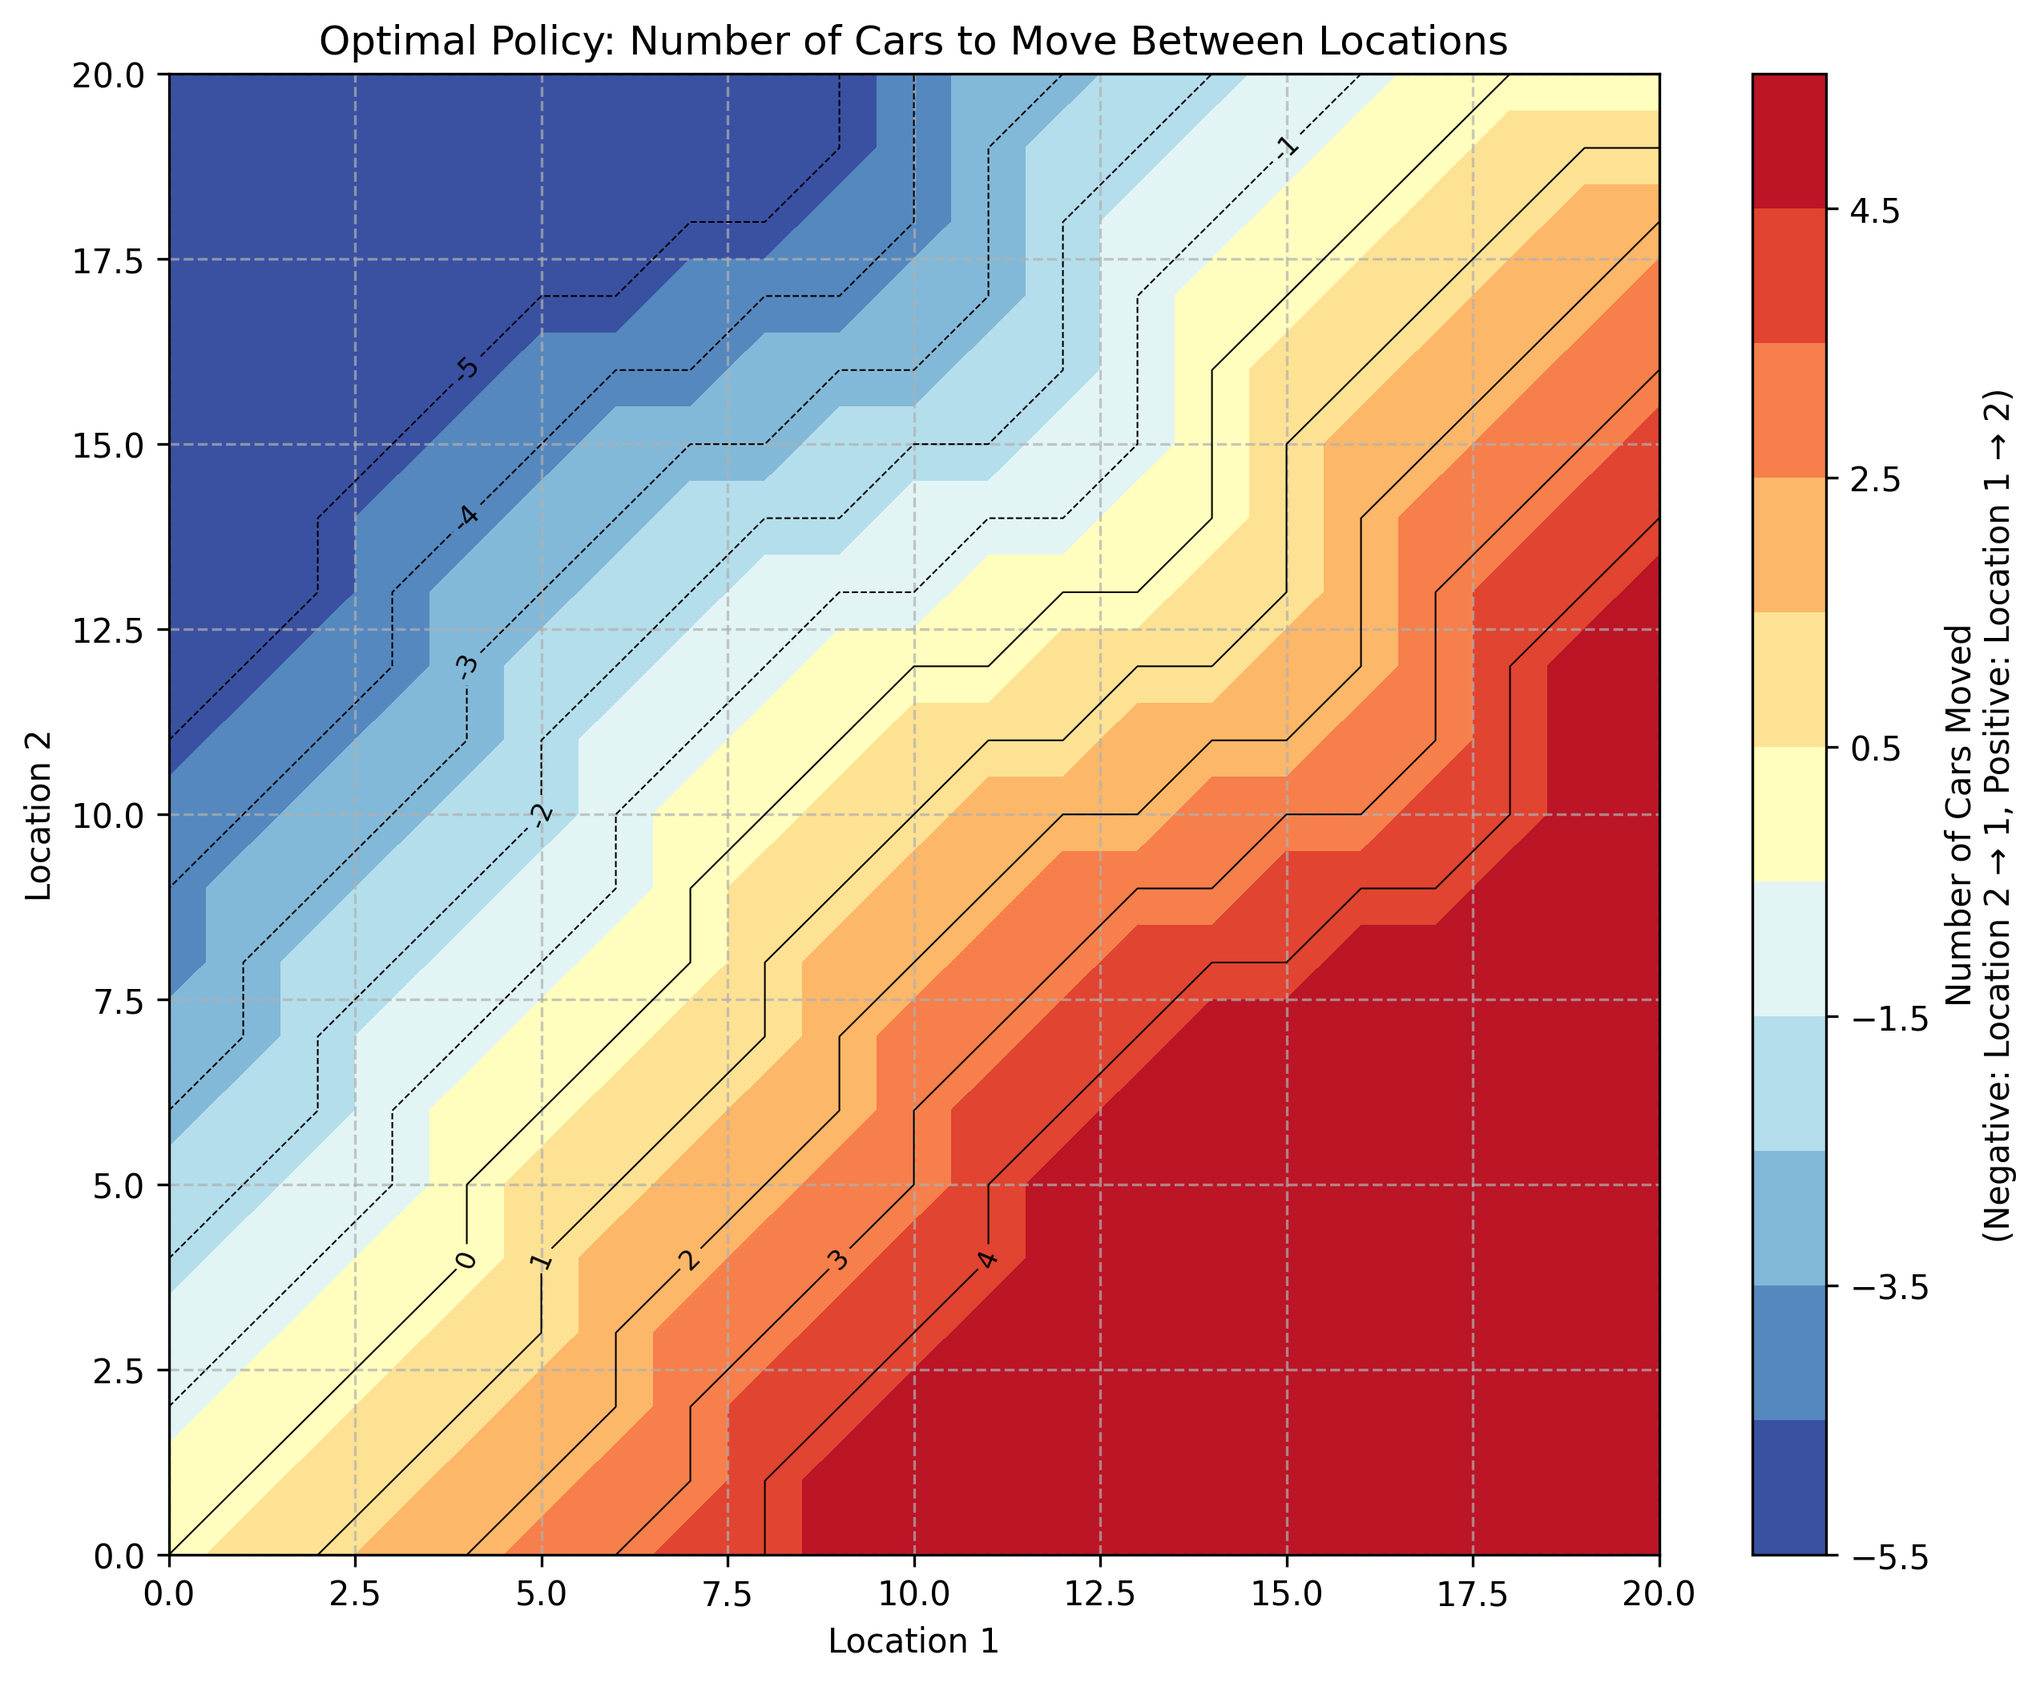
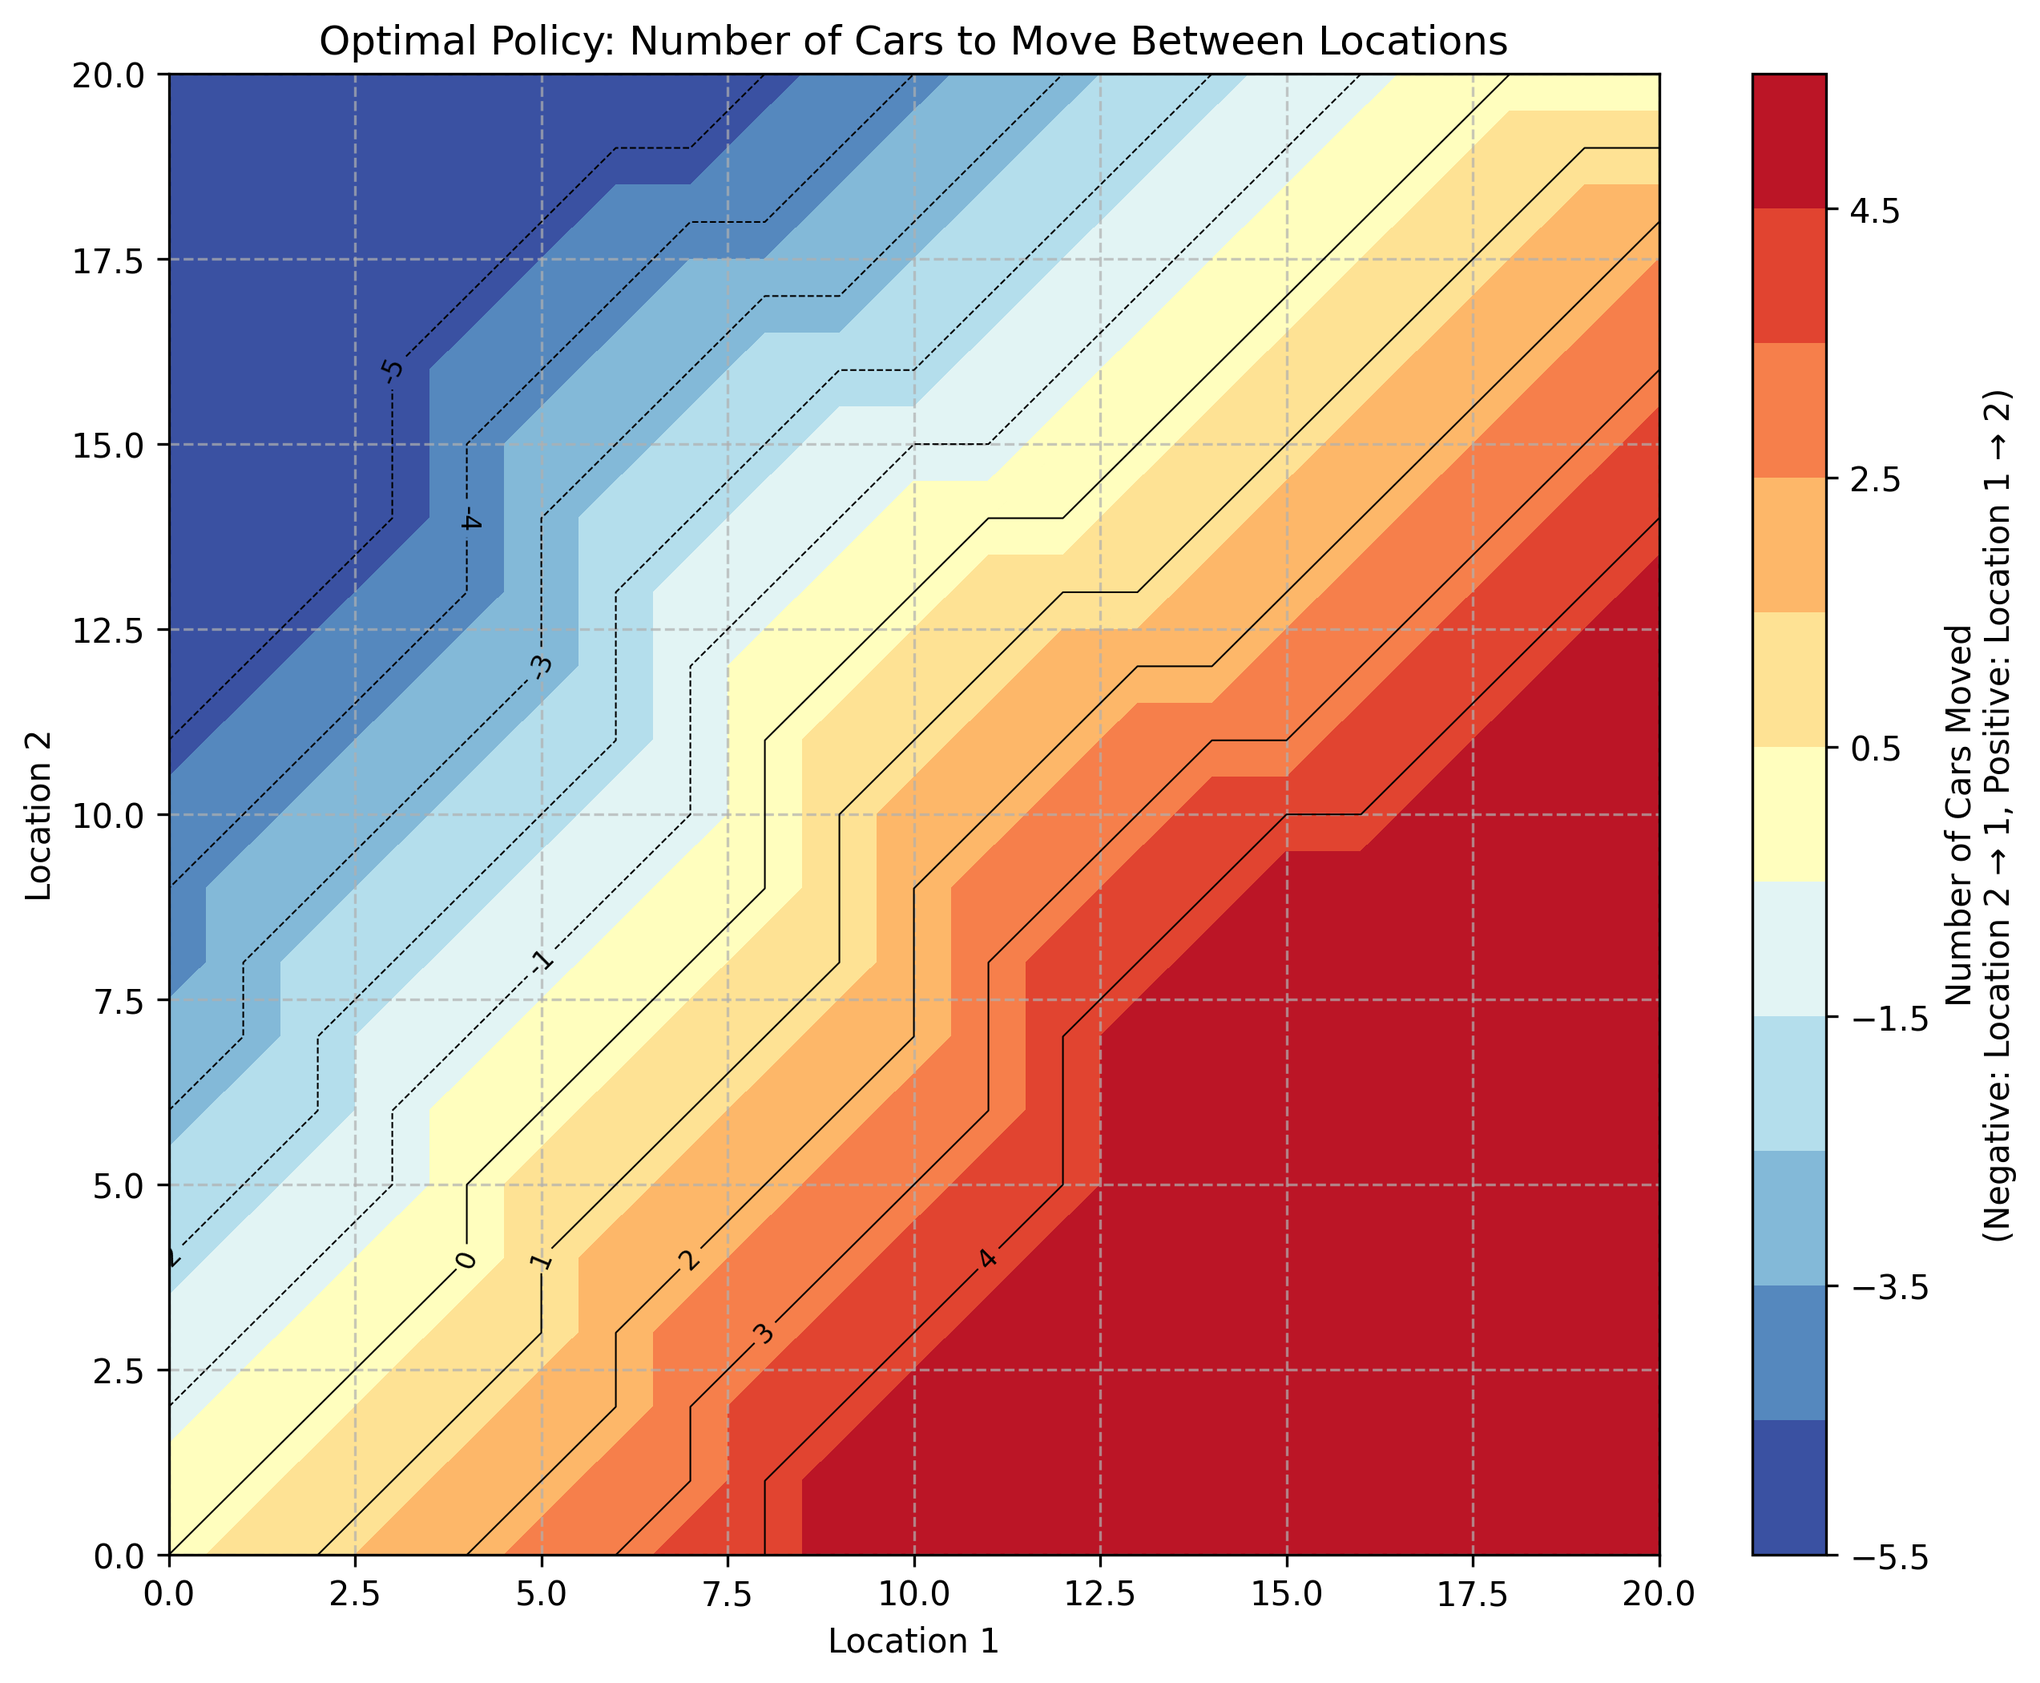
Big refactor

Changed region(s): [[0.1551, 0.031, 0.7757, 0.7429]]

diff --git a/car_rental/algorithms/q_learning.py b/car_rental/algorithms/q_learning.py
@@ -1,51 +1,82 @@
 import numpy as np
-from car_rental.environment import CarRentalEnv
+from car_rental.algorithms.base_agent import BaseAgent
 
 
-class QLearningAgent:
-    def __init__(self, env, learning_rate=0.1, discount_factor=0.9, epsilon=0.01):
-        self.env: CarRentalEnv = env
-        self.learning_rate = learning_rate
+class QLearningAgent(BaseAgent):
+    def __init__(self, env, learning_rate=0.3, discount_factor=0.9, epsilon=0.1):
+        super().__init__(env, discount_factor)
         self.epsilon = epsilon
-        self.state_space_dims = (self.env.max_cars + 1, self.env.max_cars + 1)
         self.discount_factor = discount_factor
         self.q_values = {}  # A map from (state, action) -> value.
-        self.policy = np.zeros(self.state_space_dims, dtype=int)
-
-    def evaluate_policy(self, max_iterations=100, threshold=0.01):
-        for iteration in range(max_iterations):
-            delta = 0
-            for i in range(self.state_space_dims[0]):
-                for j in range(self.state_space_dims[1]):
-                    state = (i, j)
-                    action = self.policy[state]
-                    current_q = self.q_values[(state, action)]
-                    valid_actions = self.env.get_valid_actions(state)
-                    q_values = [self.q_values.get((state, a), 0) for a in valid_actions]
-                    best_q, best_action = max(zip(q_values, valid_actions))
-                    next_action = (
-                        best_action
-                        if np.random.uniform() > self.epsilon
-                        else np.random.choice(valid_actions)
-                    )
-
-                    next_state, reward = self.env.sample_step(state, next_action)
-                    diff = reward + self.discount_factor * best_q - current_q
-                    self.q_values[(state, action)] = (
-                        current_q + self.learning_rate * diff
-                    )
-
-                    delta = max(delta, abs(diff))
-
-            if delta < threshold:
-                print(f"Converged after {iteration} iterations with delta: {delta}")
-                break
+        self.learning_rate = learning_rate
 
     def optimise_policy(self):
-        for i in range(self.state_space_dims[0]):
-            for j in range(self.state_space_dims[1]):
+        for i in range(self.env.max_cars + 1):
+            for j in range(self.env.max_cars + 1):
                 state = (i, j)
                 valid_actions = self.env.get_valid_actions(state)
                 q_values = [self.q_values.get((state, a), 0) for a in valid_actions]
                 _, action = max(zip(q_values, valid_actions))
                 self.policy[state] = action
+
+    def _train(self, max_episodes=5000, max_steps=200):
+        """Direct Q-learning with improved exploration and learning"""
+        # Decay epsilon over time
+        initial_epsilon = self.epsilon
+        epsilon_decay = 0.995
+        min_epsilon = 0.01
+
+        best_reward = float("-inf")
+        for episode in range(max_episodes):
+            state = self.env.reset()
+            total_reward = 0
+
+            # Decay epsilon
+            self.epsilon = max(min_epsilon, initial_epsilon * (epsilon_decay**episode))
+
+            for step in range(max_steps):
+                valid_actions = self.env.get_valid_actions(state)
+
+                if np.random.uniform() < self.epsilon:
+                    action = np.random.choice(valid_actions)
+                else:
+                    q_values = [
+                        self.q_values.get((state, a), 10.0) for a in valid_actions
+                    ]  # Optimistic init
+                    action = valid_actions[np.argmax(q_values)]
+
+                next_state, reward = self.env.sample_step(state, action)
+                if next_state is None:
+                    break
+
+                # Double Q-learning update to reduce overestimation
+                next_valid_actions = self.env.get_valid_actions(next_state)
+                next_q_values = [
+                    self.q_values.get((next_state, a), 10.0) for a in next_valid_actions
+                ]
+
+                # Use separate max for action selection and value estimation
+                best_action_idx = np.argmax(next_q_values)
+                max_next_q = next_q_values[best_action_idx]
+
+                current_q = self.q_values.get((state, action), 10.0)  # Optimistic init
+                self.q_values[(state, action)] = current_q + self.learning_rate * (
+                    reward + self.discount_factor * max_next_q - current_q
+                )
+
+                state = next_state
+                total_reward += reward
+
+            # Track and report progress
+            if total_reward > best_reward:
+                best_reward = total_reward
+                self.optimise_policy()  # Update policy when we find better performance
+
+            if episode % 100 == 0:  # Less frequent printing
+                print(
+                    f"Episode {episode}, Total Reward: {total_reward:.2f}, "
+                    f"Epsilon: {self.epsilon:.3f}, Best: {best_reward:.2f}"
+                )
+
+    def train(self, max_iterations=1000, threshold=0.01):
+        self._train(max_episodes=1000, max_steps=100)

diff --git a/car_rental/algorithms/policy_iteration.py b/car_rental/algorithms/policy_iteration.py
@@ -1,19 +1,17 @@
 import numpy as np
-from car_rental.environment import CarRentalEnv
+from car_rental.algorithms.base_agent import BaseAgent
 from tqdm import tqdm
 
 
-class PolicyIterationAgent:
+class PolicyIterationAgent(BaseAgent):
     def __init__(self, env, discount_factor=0.9):
         """
         Initialize the RL agent.
         :param env: The environment instance
         :param discount_factor: Discount factor (gamma)
         """
-        self.env: CarRentalEnv = env
-        self.discount_factor = discount_factor
-        self.value_function = np.zeros((env.max_cars + 1, env.max_cars + 1))
-        self.policy = np.zeros((env.max_cars + 1, env.max_cars + 1), dtype=int)
+        super().__init__(env, discount_factor)
+        self.value_function = np.zeros(env.state_space_dims)
 
     def evaluate_policy(self, max_iterations=100, threshold=0.1):
         """
@@ -22,7 +20,6 @@ class PolicyIterationAgent:
         print("Evaluating policy...")
         for iteration in range(max_iterations):
             delta = 0
-            # Iterate over state space.
             for i in range(self.env.max_cars + 1):
                 for j in range(self.env.max_cars + 1):
                     state = (i, j)
@@ -31,7 +28,6 @@ class PolicyIterationAgent:
 
                     new_value = 0
                     transitions = self.env.get_transition_probs(state, action)
-
                     for prob, next_state, reward in transitions:
                         next_value = self.value_function[next_state]
                         new_value += prob * (reward + self.discount_factor * next_value)
@@ -90,27 +86,3 @@ class PolicyIterationAgent:
             if self.improve_policy():
                 print("Policy converged")
                 break
-
-    def act(self, state):
-        """
-        Get the best action for a given state based on the current policy.
-        :param state: Current state (tuple)
-        :return: Action
-        """
-        return self.policy[state]
-
-    def save_policy(self, filename):
-        """
-        Save the policy to a file.
-        :param filename: Name of the file
-        """
-        np.save(filename, self.policy)
-        print(f"Policy saved to {filename}")
-
-    def load_policy(self, filename):
-        """
-        Load the policy from a file.
-        :param filename: Name of the file
-        """
-        self.policy = np.load(filename)
-        print(f"Policy loaded from {filename}")

diff --git a/car_rental/environment.py b/car_rental/environment.py
@@ -13,13 +13,14 @@ class CarRentalEnv:
         rental_rates=[3, 4],
         return_rates=[3, 2],
     ):
-        self.max_cars = max_cars
+        self.max_cars = int(max_cars)
         self.max_move = max_move
         self.rental_reward = rental_reward
         self.move_cost = move_cost
         self.rental_rates = rental_rates  # Poisson parameters for rentals.
         self.return_rates = return_rates  # Poisson parameters for returns.
         self._transition_cache = TransitionCache()
+        self.state_space_dims = (max_cars + 1, max_cars + 1)
 
     def reset(self):
         """
@@ -29,12 +30,17 @@ class CarRentalEnv:
         return (10, 10)
 
     def sample_step(self, state, action):
-        probs, next_states, rewards = self.get_transition_probs(state, action=action)
+        transitions = self.get_transition_probs(state, action=action)
+        if len(transitions):
+            probs, next_states, rewards = zip(*transitions)
+        else:
+            return None, None
         ids = range(len(next_states))
+        probs = probs / np.sum(probs)
         choice = np.random.choice(ids, p=probs)
         return next_states[choice], rewards[choice]
 
-    def get_transition_probs(self, state, action=0, min_prob=1e-4):
+    def get_transition_probs(self, state, action=0, min_prob=1e-5):
         """
         Get probabilities and rewards for all possible next states.
         Returns: list of (probability, next_state, reward) tuples
@@ -51,13 +57,17 @@ class CarRentalEnv:
 
         transitions = []
         # Consider reasonable ranges for Poisson distributions (e.g., mean ± 3 std dev)
-        max_rental_1 = min(
-            loc_1_after_move,
-            int(self.rental_rates[0] + 3 * np.sqrt(self.rental_rates[0])),
+        max_rental_1 = int(
+            min(
+                loc_1_after_move,
+                self.rental_rates[0] + 3 * np.sqrt(self.rental_rates[0]),
+            )
         )
-        max_rental_2 = min(
-            loc_2_after_move,
-            int(self.rental_rates[1] + 3 * np.sqrt(self.rental_rates[1])),
+        max_rental_2 = int(
+            min(
+                loc_2_after_move,
+                self.rental_rates[1] + 3 * np.sqrt(self.rental_rates[1]),
+            )
         )
         max_return_1 = int(self.return_rates[0] + 3 * np.sqrt(self.return_rates[0]))
         max_return_2 = int(self.return_rates[1] + 3 * np.sqrt(self.return_rates[1]))

diff --git a/car_rental/algorithms/value_iteration.py b/car_rental/algorithms/value_iteration.py
@@ -1,13 +1,11 @@
 import numpy as np
-from car_rental.environment import CarRentalEnv
+from car_rental.algorithms.base_agent import BaseAgent
 
 
-class ValueIterationAgent:
+class ValueIterationAgent(BaseAgent):
     def __init__(self, env, discount_factor=0.9):
-        self.env: CarRentalEnv = env
-        self.discount_factor = discount_factor
+        super().__init__(env, discount_factor)
         self.value_function = np.zeros((env.max_cars + 1, env.max_cars + 1))
-        self.policy = np.zeros((env.max_cars + 1, env.max_cars + 1), dtype=int)
 
     def train_value_function(self, max_iterations=100, threshold=0.1):
         for iteration in range(max_iterations):
@@ -23,7 +21,6 @@ class ValueIterationAgent:
                         for prob, new_state, reward in self.env.get_transition_probs(
                             state, action
                         ):
-                            # In-place update of the value function (not synchronous).
                             next_value = self.value_function[new_state]
                             action_value += prob * (
                                 reward + self.discount_factor * next_value
@@ -57,7 +54,6 @@ class ValueIterationAgent:
                         )
                     action_values.append((action_value, action))
 
-                # Select the action with the highest value
                 if action_values:
                     _, best_action = max(action_values)
                     self.policy[state] = best_action

diff --git a/car_rental/algorithms/base_agent.py b/car_rental/algorithms/base_agent.py
@@ -1,0 +1,44 @@
+import numpy as np
+from car_rental.environment import CarRentalEnv
+
+
+class BaseAgent:
+    def __init__(self, env, discount_factor=0.9):
+        """
+        Initialize the RL agent.
+        :param env: The environment instance
+        :param discount_factor: Discount factor (gamma)
+        """
+        self.env: CarRentalEnv = env
+        self.discount_factor = discount_factor
+        self.policy = np.zeros(env.state_space_dims, dtype=int)
+
+    def train(self, max_iterations=1000, threshold=0.1):
+        """
+        Train the RL agent using a chosen algorithm.
+        """
+        raise NotImplementedError("Train method not implemented")
+
+    def act(self, state):
+        """
+        Get the best action for a given state based on the current policy.
+        :param state: Current state (tuple)
+        :return: Action
+        """
+        return self.policy[state]
+
+    def save_policy(self, filename):
+        """
+        Save the policy to a file.
+        :param filename: Name of the file
+        """
+        np.save(filename, self.policy)
+        print(f"Policy saved to {filename}")
+
+    def load_policy(self, filename):
+        """
+        Load the policy from a file.
+        :param filename: Name of the file
+        """
+        self.policy = np.load(filename)
+        print(f"Policy loaded from {filename}")

diff --git a/car_rental/main.py b/car_rental/main.py
@@ -11,7 +11,7 @@ if __name__ == "__main__":
     )
     parser.add_argument(
         "algorithm",
-        choices=["policy_iteration", "value_iteration"],
+        choices=["policy_iteration", "value_iteration", "q_learning"],
         help="Algorithm to use for training the agent.",
     )
     args = parser.parse_args()
